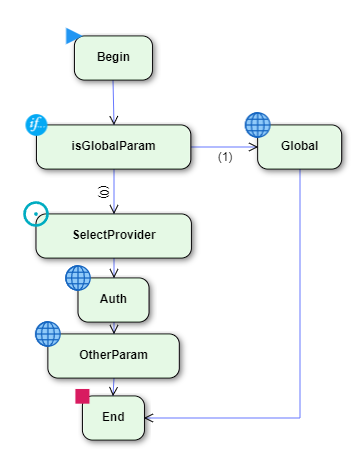
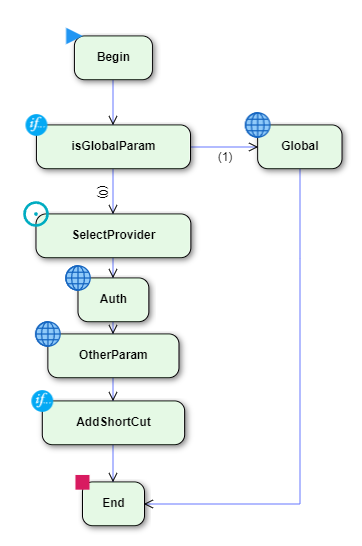
add shortcut to header step

Changed region(s): [[0.0608, 0.0304, 0.9724, 0.9739]]

diff --git a/src/com/simplicite/workflows/AIBySimplicite/AiSettingsProcess.java b/src/com/simplicite/workflows/AIBySimplicite/AiSettingsProcess.java
@@ -10,6 +10,7 @@ import com.simplicite.bpm.*;
 import com.simplicite.commons.AIBySimplicite.AITools;
 import com.simplicite.util.*;
 import com.simplicite.util.exceptions.*;
+import com.simplicite.util.tools.BusinessObjectTool;
 import com.simplicite.webapp.ObjectContextWeb;
 
 /**
@@ -143,36 +144,48 @@ public class AiSettingsProcess extends Processus {
 	
 	@Override
 	public void postValidate(ActivityFile context) {
-		if(PARAM_ACT.equals(context.getActivity().getStep())){
-			ObjectDB obj = getGrant().getTmpObject(PROVIDER_OBJECT);
-			JSONObject param = new JSONObject();
-			synchronized(obj.getLock()){
-				String providerid = getContext(getActivity(PROVIDER_ACT)).getDataValue(FIELD_DATA, ROW_ID);
-				obj.select(providerid);
-				
-				JSONObject defaultParam = new JSONObject(getGrant().T(AI_DEFAULT_PARAM));
-				JSONObject sepParam = new JSONObject(obj.getFieldValue("aiPrvDataModel"));
-				
-				for(String k : defaultParam.keySet()){
+		String step = context.getActivity().getStep();
+		Grant g = getGrant();
+		switch (step) {
+			case PARAM_ACT:
+				ObjectDB obj = g.getTmpObject(PROVIDER_OBJECT);
+				JSONObject param = new JSONObject();
+				synchronized(obj.getLock()){
+					String providerid = getContext(getActivity(PROVIDER_ACT)).getDataValue(FIELD_DATA, ROW_ID);
+					obj.select(providerid);
 					
-					String val = context.getDataValue("Data", k);
-					param.put(k, "showDataDisclaimer".equals(k)?("1".equals(val)):val);
+					JSONObject defaultParam = new JSONObject(g.T(AI_DEFAULT_PARAM));
+					JSONObject sepParam = new JSONObject(obj.getFieldValue("aiPrvDataModel"));
+					
+					for(String k : defaultParam.keySet()){
+						
+						String val = context.getDataValue("Data", k);
+						param.put(k, "showDataDisclaimer".equals(k)?("1".equals(val)):val);
+					}
+					for(String k : sepParam.keySet()){
+						String val = context.getDataValue("Data", k);
+						param.put(k, val);
+					}
 				}
-				for(String k : sepParam.keySet()){
-					String val = context.getDataValue("Data", k);
-					param.put(k, val);
-				}
-			}
-			param.put("ping_url",getContext(getActivity(AUTH_ACT)).getDataValue("Data","aiPrvPingUrl"));
-			param.put("stt_url",getContext(getActivity(AUTH_ACT)).getDataValue("Data",STT_URL_FLD));
-			String url = getContext(getActivity(AUTH_ACT)).getDataValue("Data", COMPLETION_URL_FLD);
-			param.put("completion_url",url);
-			String key = getContext(getActivity(AUTH_ACT)).getDataValue("Data", "key");
-			param.put("api_key", key);
-			AITools.setParameters(param);
-			
-			
+				param.put("ping_url",getContext(getActivity(AUTH_ACT)).getDataValue("Data","aiPrvPingUrl"));
+				param.put("stt_url",getContext(getActivity(AUTH_ACT)).getDataValue("Data",STT_URL_FLD));
+				String url = getContext(getActivity(AUTH_ACT)).getDataValue("Data", COMPLETION_URL_FLD);
+				param.put("completion_url",url);
+				String key = getContext(getActivity(AUTH_ACT)).getDataValue("Data", "key");
+				param.put("api_key", key);
+				AITools.setParameters(param);
+				break;
+			case "ASP-0500":
+					if(!"1".equals(context.getDataValue("Data", "AREA:1"))) break;
+					String value = g.getUserSystemParam("SHORTCUT_PREFS");
+					JSONObject paramObj = Tool.isEmpty(value)?new JSONObject():new JSONObject(value);
+					paramObj.put("AIBot",paramObj.optJSONObject("AIBot",new JSONObject()).put("header", true));
+					g.setUserSystemParam("SHORTCUT_PREFS", paramObj.toString(), true);
+				break;
+			default:
+				break;
 		}
+
 			
 		super.postValidate(context);
 	}

diff --git a/README.md b/README.md
@@ -232,6 +232,7 @@ Auomatic model generation process
 * `SelectProvider`: 
 * `Auth`: 
 * `OtherParam`: 
+* `AddShortCut`: 
 * `Begin`: 
 * `End`: 
 
